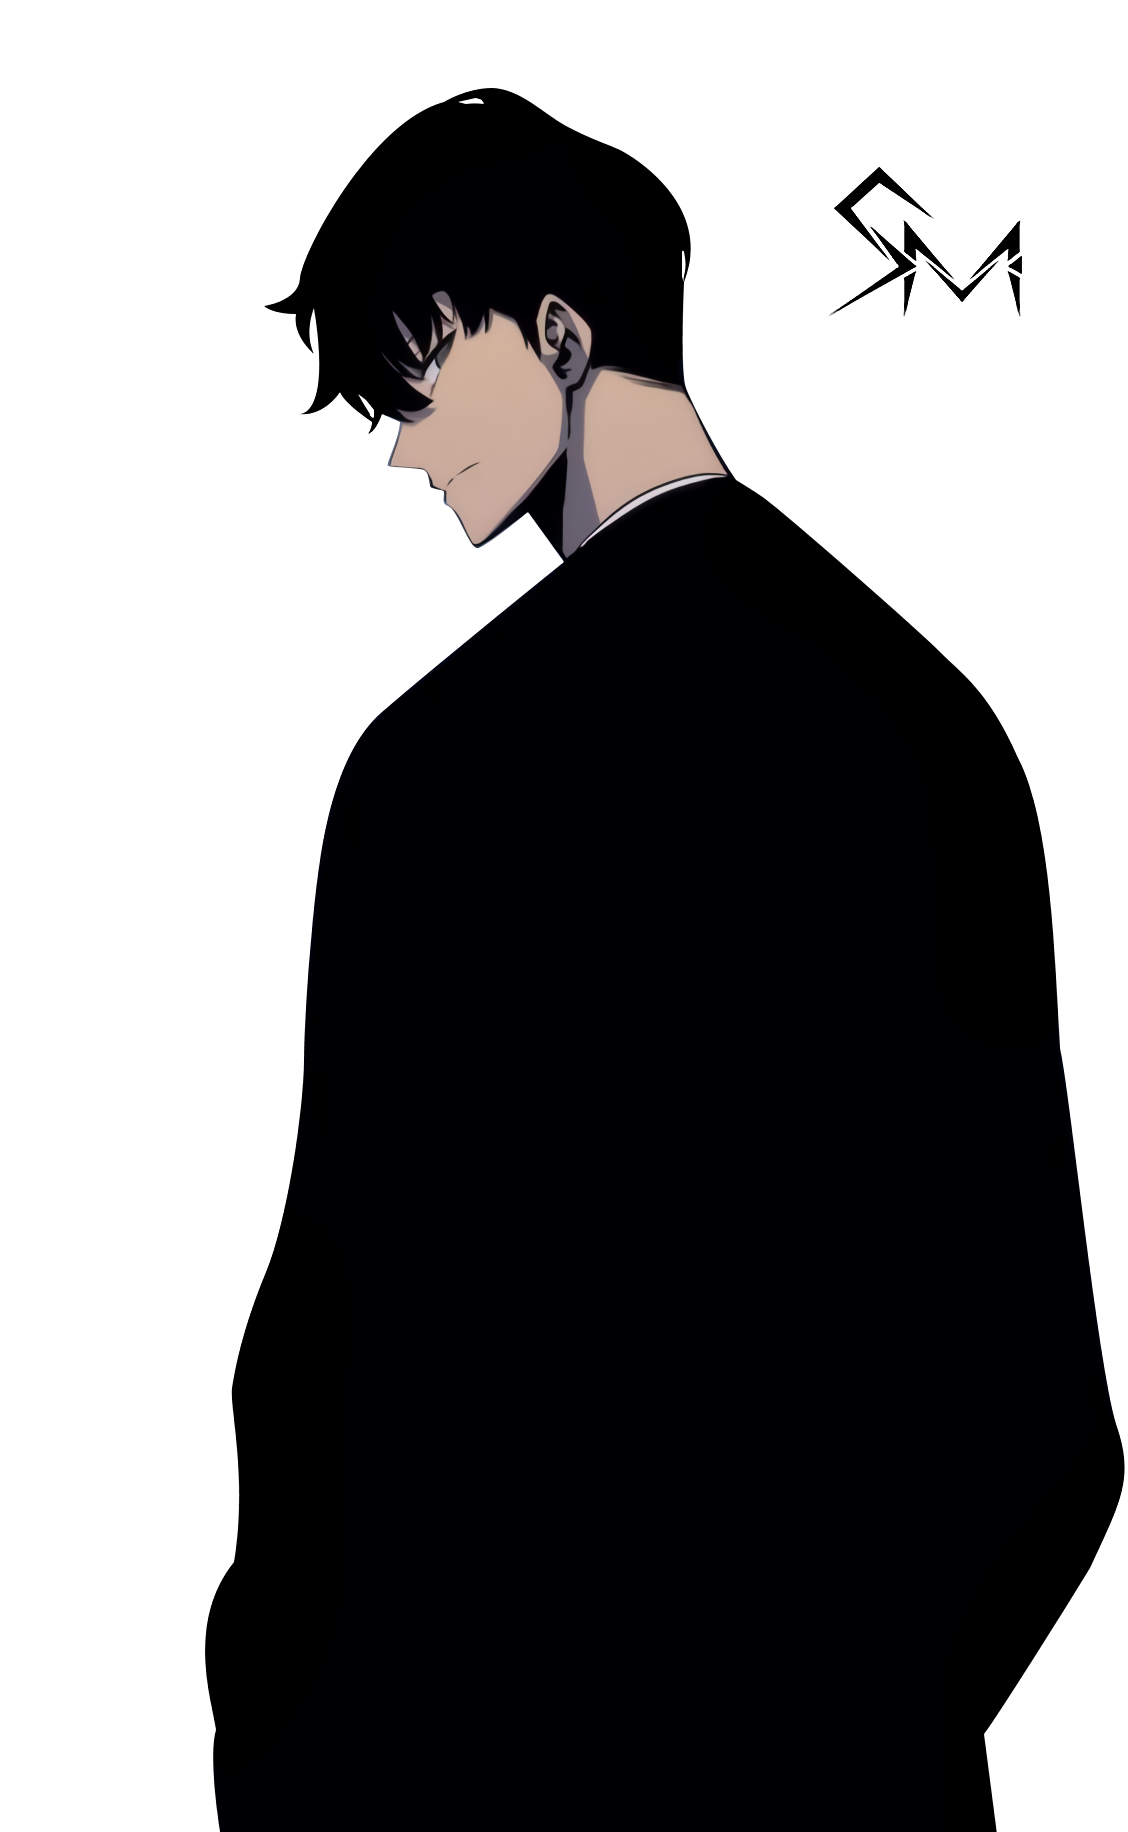
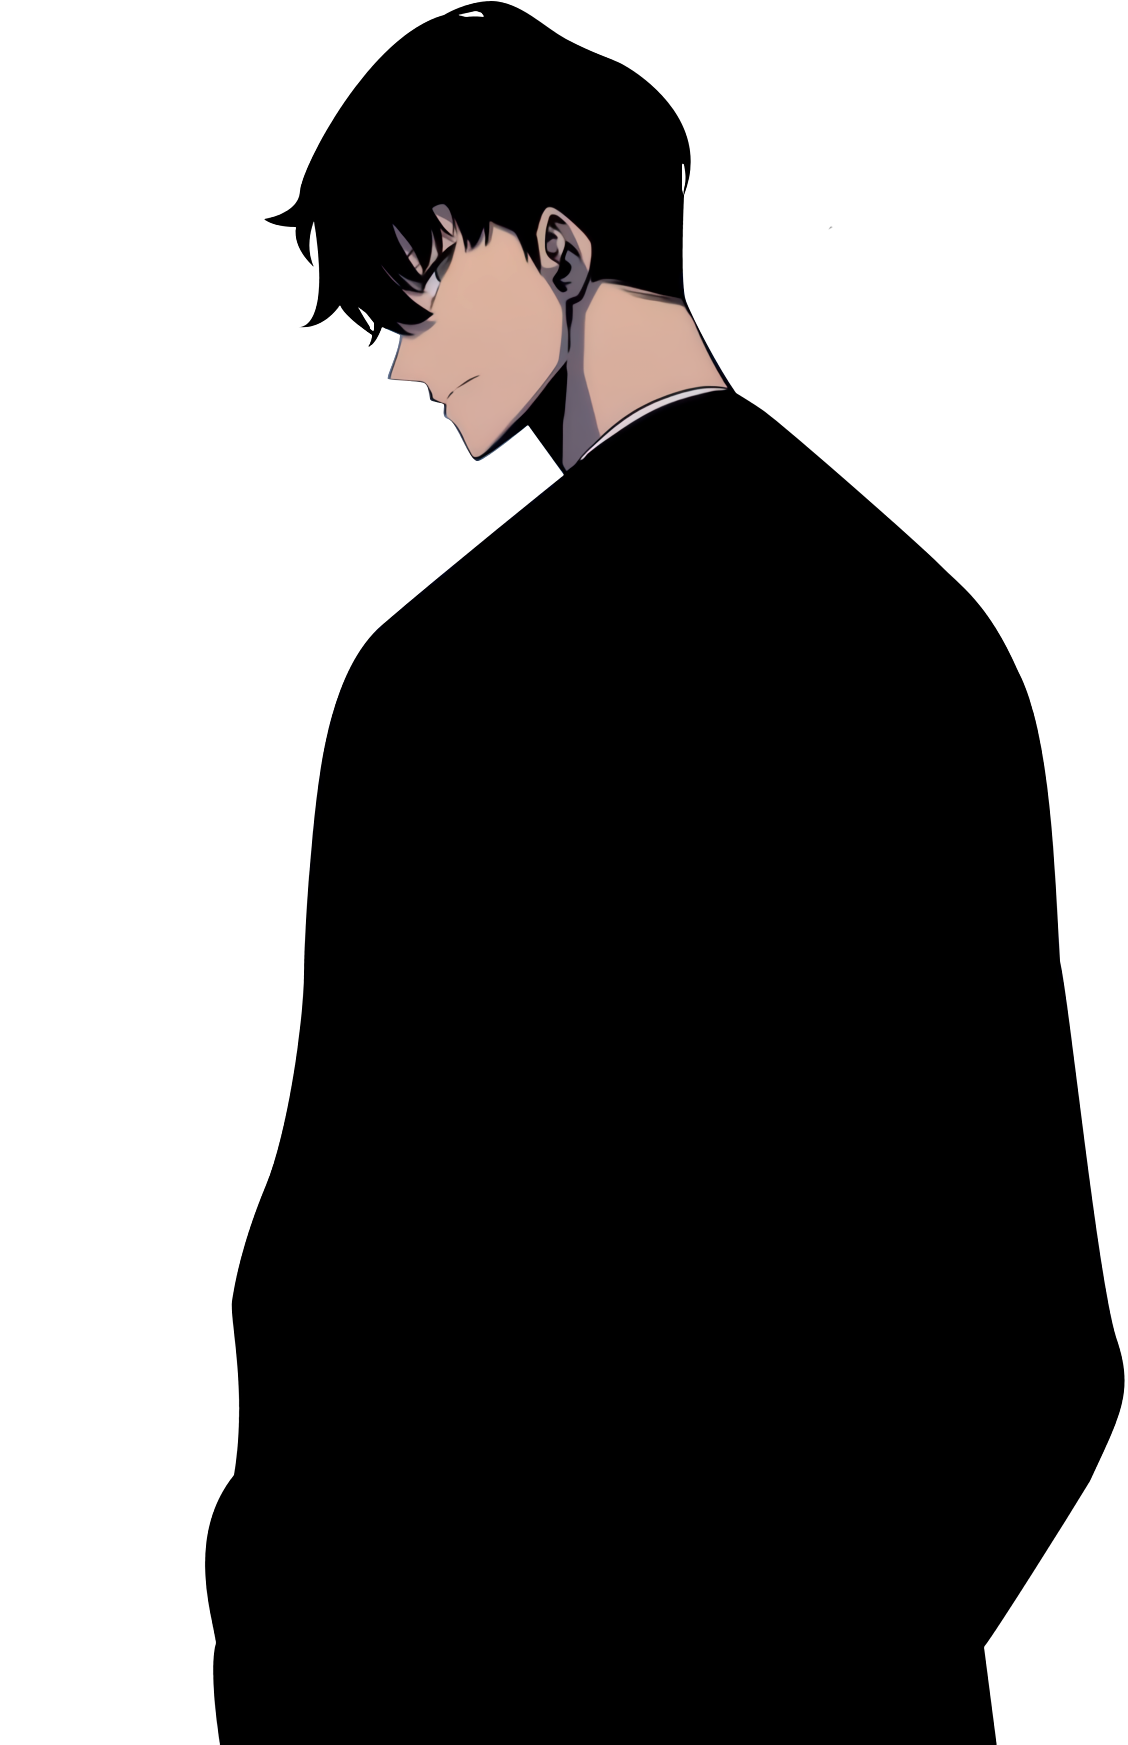
b

diff --git a/index.html b/index.html
@@ -28,7 +28,7 @@
 
         <main class="main">
 
-            <div class="character">
+            <div class="character border">
                 <h2 class="title-ranking">S RANK</h2>
                 <h4 class="description-character">Shadow Monarch A.K.A</h4>
                 <h1 class="name-character">SUNG JIN WOO</h1>
@@ -44,11 +44,8 @@
                     As a result, he is very close to his sister, mother, and Jinho, and rarely wastes an opportunity to grow stronger.</p>
             </div>
 
-            <div class="image-main">
-                <img class="foto-character" src="assets/img/sungJinWoo.png" alt="Sung JinWoo" >
-            </div>
 
-            <div class="navigation">
+            <div class="navigation border">
                 <ul class="list-navigation">
                     <li>ABOUT</li>
                     <li>AFFILIATION</li>
@@ -60,12 +57,13 @@
                 </ul>
 
             </div>
-
- 
-            
-        
             
         </main>
+
+
+        <div class="foto-main">
+            <img class="foto-character" src="assets/img/sungJinWoo.png" alt="Sung JinWoo" >
+        </div>        
     </div>
 </body>
 </html>

diff --git a/assets/css/styles.css b/assets/css/styles.css
@@ -8,14 +8,14 @@
 
 body {
     font-family: 'Roboto', sans-serif;
-    background-color: rgb(48, 93, 129);
+    background-image: url("../img/imageBg.png");
     color: white;
 }
 
 
 
 .container {
-    margin: 0em 2em;
+    margin: 0em 4em;
 }
 
 .header {
@@ -59,7 +59,8 @@ body {
 
 .main {
     display: flex;
-    gap: 10em;
+    flex-direction: column;
+    gap: 20em;
     align-items: center;
 }
 
@@ -81,16 +82,25 @@ p {
 }
 
 .foto-character {
-    width: 140%;
+    width: 100%;
 }
 
 .list-navigation li {
+    display: flex;
     list-style: none;
     margin-bottom: 0.5em;
+    border: 1px solid white;
 }
 
-.list-navigation li:hover {
-    list-style: disc;
-    border-bottom: 0.1px solid black;
-    cursor: pointer;
+
+.foto-main {
+    width: 33%;
+    top: 0;
+    bottom: 0;
+    margin-left: 72em;
+    position: absolute;
+}
+
+.border {
+    padding: 1em 0em;
 }
